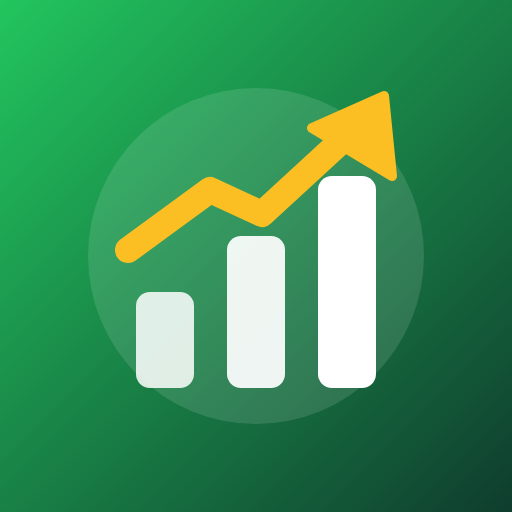
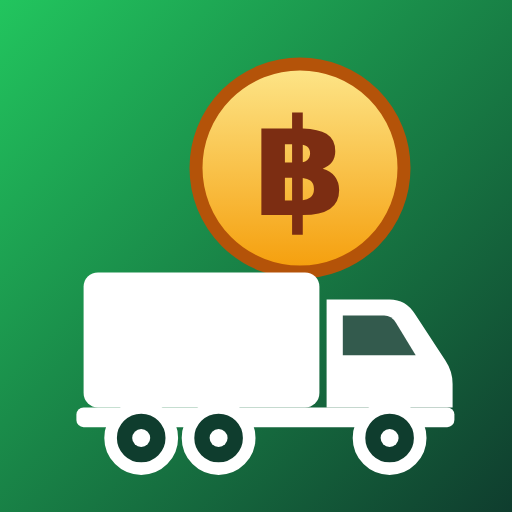
โลโก้ใหม่ แบบ B: เหรียญ ฿ + รถบรรทุก
Claude-Session: https://claude.ai/code/session_01S3PVuPWeF5HadkVucRc6zr

diff --git a/index.html b/index.html
@@ -8,9 +8,9 @@
 <meta name="apple-mobile-web-app-title" content="Cashflow">
 <meta name="mobile-web-app-capable" content="yes">
 <meta name="apple-mobile-web-app-status-bar-style" content="default">
-<link rel="apple-touch-icon" href="apple-touch-icon.png">
-<link rel="icon" type="image/png" sizes="32x32" href="favicon.png">
-<link rel="manifest" href="manifest.json">
+<link rel="apple-touch-icon" href="apple-touch-icon.png?v=2">
+<link rel="icon" type="image/png" sizes="32x32" href="favicon.png?v=2">
+<link rel="manifest" href="manifest.json?v=2">
 <title>Cashflow</title>
 <link rel="preconnect" href="https://fonts.googleapis.com">
 <link href="https://fonts.googleapis.com/css2?family=Sarabun:wght@400;600;700;800&display=swap" rel="stylesheet">
@@ -167,7 +167,7 @@ label.f{display:block;font-size:12.5px;color:var(--mute);font-weight:600;margin:
 // anon key เปิดเผยได้โดยออกแบบ — ตัวป้องกันจริงคือ RLS (owner = auth.uid()) + ต้อง login
 const CF_SUPABASE_URL = 'https://xgpsdcnqravhouwaktgp.supabase.co';
 const CF_SUPABASE_ANON = 'sb_publishable_HGOrB_SgTUq22r67me1B5Q_KYhNoL7B';   // publishable key (Fillbook)
-const CF_VERSION = '2026-11-08i';
+const CF_VERSION = '2026-11-08j';
 // =============================================================================
 
 const GRP={in:{label:'เงินเข้า',sign:1,color:'#067647',icon:'⬇'},debt:{label:'ชำระหนี้',sign:-1,color:'#b54708',icon:'🏦'},exp:{label:'ค่าใช้จ่าย',sign:-1,color:'#c0262d',icon:'⬆'}};
